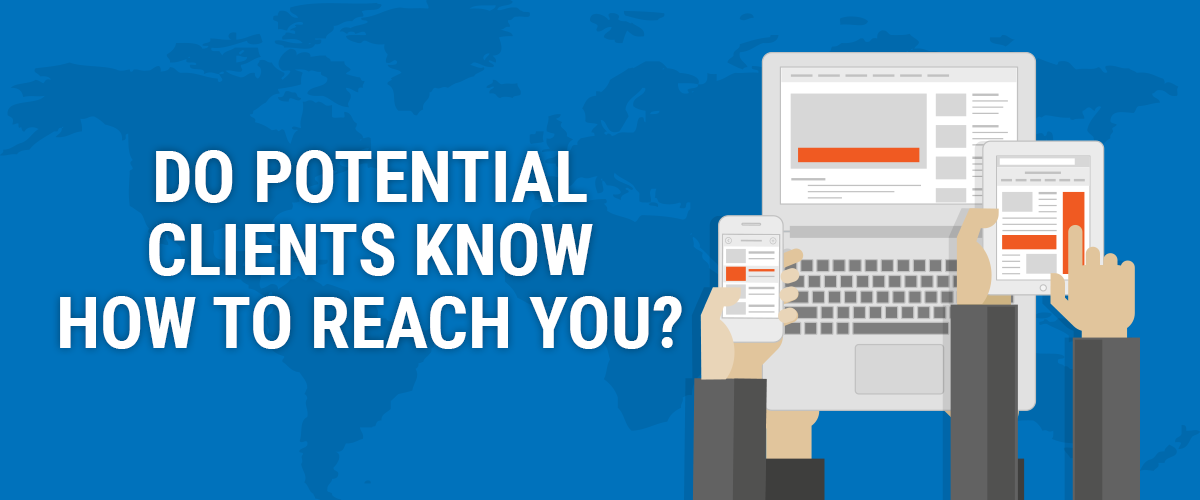
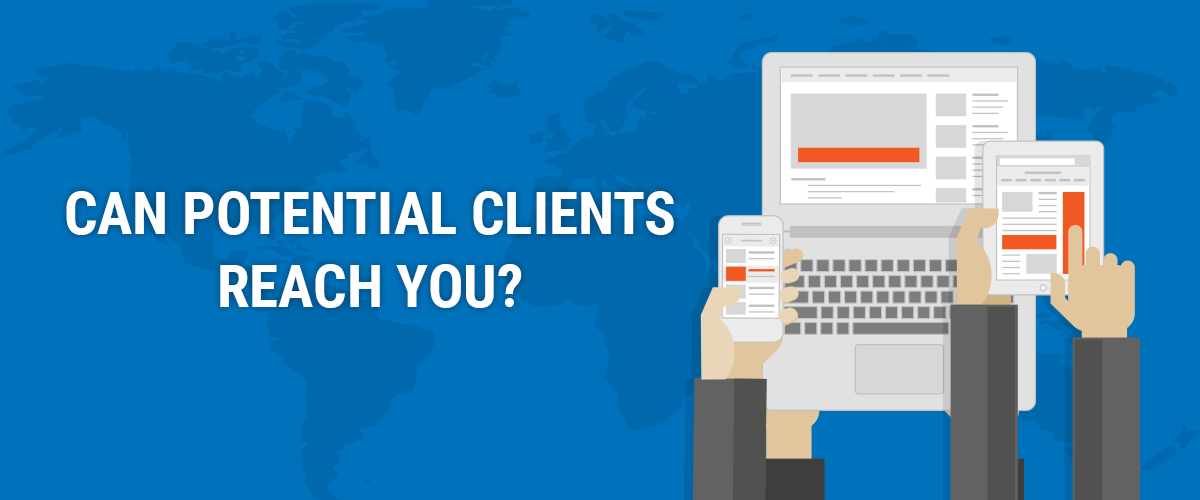
:memo: Content changes.

Changed region(s): [[0.0308, 0.3, 0.5858, 0.72]]

diff --git a/dist/mail1.html b/dist/mail1.html
@@ -139,12 +139,12 @@
     <table border="0" cellpadding="0" cellspacing="0" width="600" align="center" style="background:#ffffff; overflow:hidden; max-width:600px!important; min-width:600px!important; text-align:center; border-collapse:collapse!important;">
         <tr>
             <td width="100%" align="center" bgcolor="#0072bc">
-                <img alt="Do potencial clients know how to reach you?" src="https://justatic.com/v/20161021a/emails/images/lawyer-directory/2016/11/nov-contactinfo-banner-01.png" tabindex="0" width="600" height="250" border="0" style="display:block;">
+                <img alt="Can Potential Clients Reach You?" src="https://justatic.com/v/20161101a/emails/images/lawyer-directory/2016/11/nov-contactinfo-banner-01.png" tabindex="0" width="600" height="250" border="0" style="display:block;">
             </td>
         </tr>
         <tr>
             <td width="100%" align="left" bgcolor="#ffffff" style="padding:24px 30px 12px;">
-                <p style="font-family:Helvetica,Arial,sans-serif; font-size:18px; line-height:1.4; margin:0; Margin:0; color:#02337c;"><strong>Here is the contact information currently listed on your profile:</strong></p>
+                <p style="font-family:Helvetica,Arial,sans-serif; font-size:18px; line-height:1.4; margin:0; Margin:0; color:#02337c;"><strong>Here is what is currently listed on your profile:</strong></p>
             </td>
         </tr>
 
@@ -162,18 +162,23 @@
                     </tr>
                     <tr>
                         <td valign="top" width="340" align="left" style="padding:18px 5px 18px 15px; border-bottom:1px solid #d6dce2;">
-                            <p style="font-family:Helvetica,Arial,sans-serif; font-size:16px; line-height:1.5; margin:0; Margin:0; color:#02337c;"><strong>Phone Number</strong></p>
+                            <p style="font-family:Helvetica,Arial,sans-serif; font-size:16px; line-height:1.5; margin:0; Margin:0; color:#02337c;"><strong>Firm</strong></p>
                         </td>
                         <td valign="top" width="740" align="left" style="padding:18px 15px 18px 0; border-bottom:1px solid #d6dce2;">
-                            <p style="font-family:Helvetica,Arial,sans-serif; font-size:14px; line-height:1.5; margin:0; Margin:0; color:#02337c;">888-888-8888</p>
+                            <p style="font-family:Helvetica,Arial,sans-serif; font-size:14px; line-height:1.5; margin:0; Margin:0; color:#02337c;">Parr Richey Obremskey Frandsen & Patterson LLP</p>
                         </td>
                     </tr>
                     <tr>
                         <td valign="top" width="340" align="left" style="padding:18px 5px 18px 15px; border-bottom:1px solid #d6dce2;">
-                            <p style="font-family:Helvetica,Arial,sans-serif; font-size:16px; line-height:1.5; margin:0; Margin:0; color:#02337c;"><strong>Contact Email</strong></p>
+                            <p style="font-family:Helvetica,Arial,sans-serif; font-size:16px; line-height:1.5; margin:0; Margin:0; color:#02337c;"><strong>Contact Information</strong></p>
                         </td>
                         <td valign="top" width="740" align="left" style="padding:18px 15px 18px 0; border-bottom:1px solid #d6dce2;">
-                            <p style="font-family:Helvetica,Arial,sans-serif; font-size:14px; line-height:1.5; margin:0; Margin:0; color:#02337c;">contact@abclaw.com</p>
+                            <p style="font-family:Helvetica,Arial,sans-serif; font-size:14px; line-height:1.5; margin:0; Margin:0; color:#02337c;">Main Office</p>
+                            <p style="font-family:Helvetica,Arial,sans-serif; font-size:14px; line-height:1.5; margin:0; Margin:0; color:#02337c;">210 E 3rd St #204</p>
+                            <p style="font-family:Helvetica,Arial,sans-serif; font-size:14px; line-height:1.5; margin:0; Margin:0; color:#02337c;">Royal Oak, MI 48067</p>
+                            <p style="font-family:Helvetica,Arial,sans-serif; font-size:14px; line-height:1.5; margin:0; Margin:0; color:#02337c;">USA</p>
+                            <p style="font-family:Helvetica,Arial,sans-serif; font-size:14px; line-height:1.5; margin:0; Margin:0; color:#02337c;"><strong>Telephone:</strong> (248) 544-0888</p>
+                            <p style="font-family:Helvetica,Arial,sans-serif; font-size:14px; line-height:1.5; margin:0; Margin:0; color:#02337c;"><strong>Fax:</strong> (248) 544-3111</p>
                         </td>
                     </tr>
                     <tr>
@@ -197,14 +202,6 @@
                             <p style="font-family:Helvetica,Arial,sans-serif; font-size:14px; line-height:1.5; margin:0; Margin:0; color:#02337c;">U.S. Supreme Court</p>
                         </td>
                     </tr>
-                    <tr>
-                        <td valign="top" width="340" align="left" style="padding:18px 5px 18px 15px; border-bottom:1px solid #d6dce2;">
-                            <p style="font-family:Helvetica,Arial,sans-serif; font-size:16px; line-height:1.5; margin:0; Margin:0; color:#02337c;"><strong>Firm</strong></p>
-                        </td>
-                        <td valign="top" width="740" align="left" style="padding:18px 15px 18px 0; border-bottom:1px solid #d6dce2;">
-                            <p style="font-family:Helvetica,Arial,sans-serif; font-size:14px; line-height:1.5; margin:0; Margin:0; color:#02337c;">Parr Richey Obremskey Frandsen & Patterson LLP</p>
-                        </td>
-                    </tr>
                 </table>
             </td>
         </tr>
@@ -212,7 +209,7 @@
         <tr>
             <td width="100%" align="center" bgcolor="#ffffff" style="padding:0 30px 36px;">
                 <a href="#" style="text-decoration:none; display:block;">
-                    <img alt="Update Your Contact Info Now" src="https://justatic.com/v/20161021a/emails/images/lawyer-directory/2016/11/nov-contactinfo-button-01.png" tabindex="0" width="368" height="60" border="0" style="display:block;">
+                    <img alt="Update Your Contact Info Now" src="https://justatic.com/v/20161101a/emails/images/lawyer-directory/2016/11/nov-contactinfo-button-01.png" tabindex="0" width="368" height="60" border="0" style="display:block;">
                 </a>
             </td>
         </tr>
@@ -224,7 +221,7 @@
         <tr>
             <td width="100%" align="center" bgcolor="#ffffff" style="padding:0 30px 34px;">
                 <p style="font-family:Helvetica,Arial,sans-serif; font-size:16px; line-height:1.4; margin:0; Margin:0; color:#02337c;">Justia Lawyer Directory Team</p>
-                <p style="font-family:Helvetica,Arial,sans-serif; font-size:18px; line-height:1.3; margin:0; Margin:0; color:#02337c;"><strong><a href="tel:8885878421" target="_blank" style="text-decoration:none; color:#02337c!important;">888.587.8421</a></strong></p>
+                <p style="font-family:Helvetica,Arial,sans-serif; font-size:18px; line-height:1.3; margin:0; Margin:0; color:#02337c;"><strong><a href="tel:8885878421" target="_blank" style="text-decoration:none; color:#02337c!important;">(888) 587-8421</a></strong></p>
             </td>
         </tr>
     </table>

diff --git a/Gruntfile.js b/Gruntfile.js
@@ -5,7 +5,7 @@ module.exports = function(grunt) {
         // Pass data to tasks
         data: {
             port: 4000,
-            justatic_version: '20161021a',
+            justatic_version: '20161101a',
             current_year: '2016',
             current_month: '11',
 
